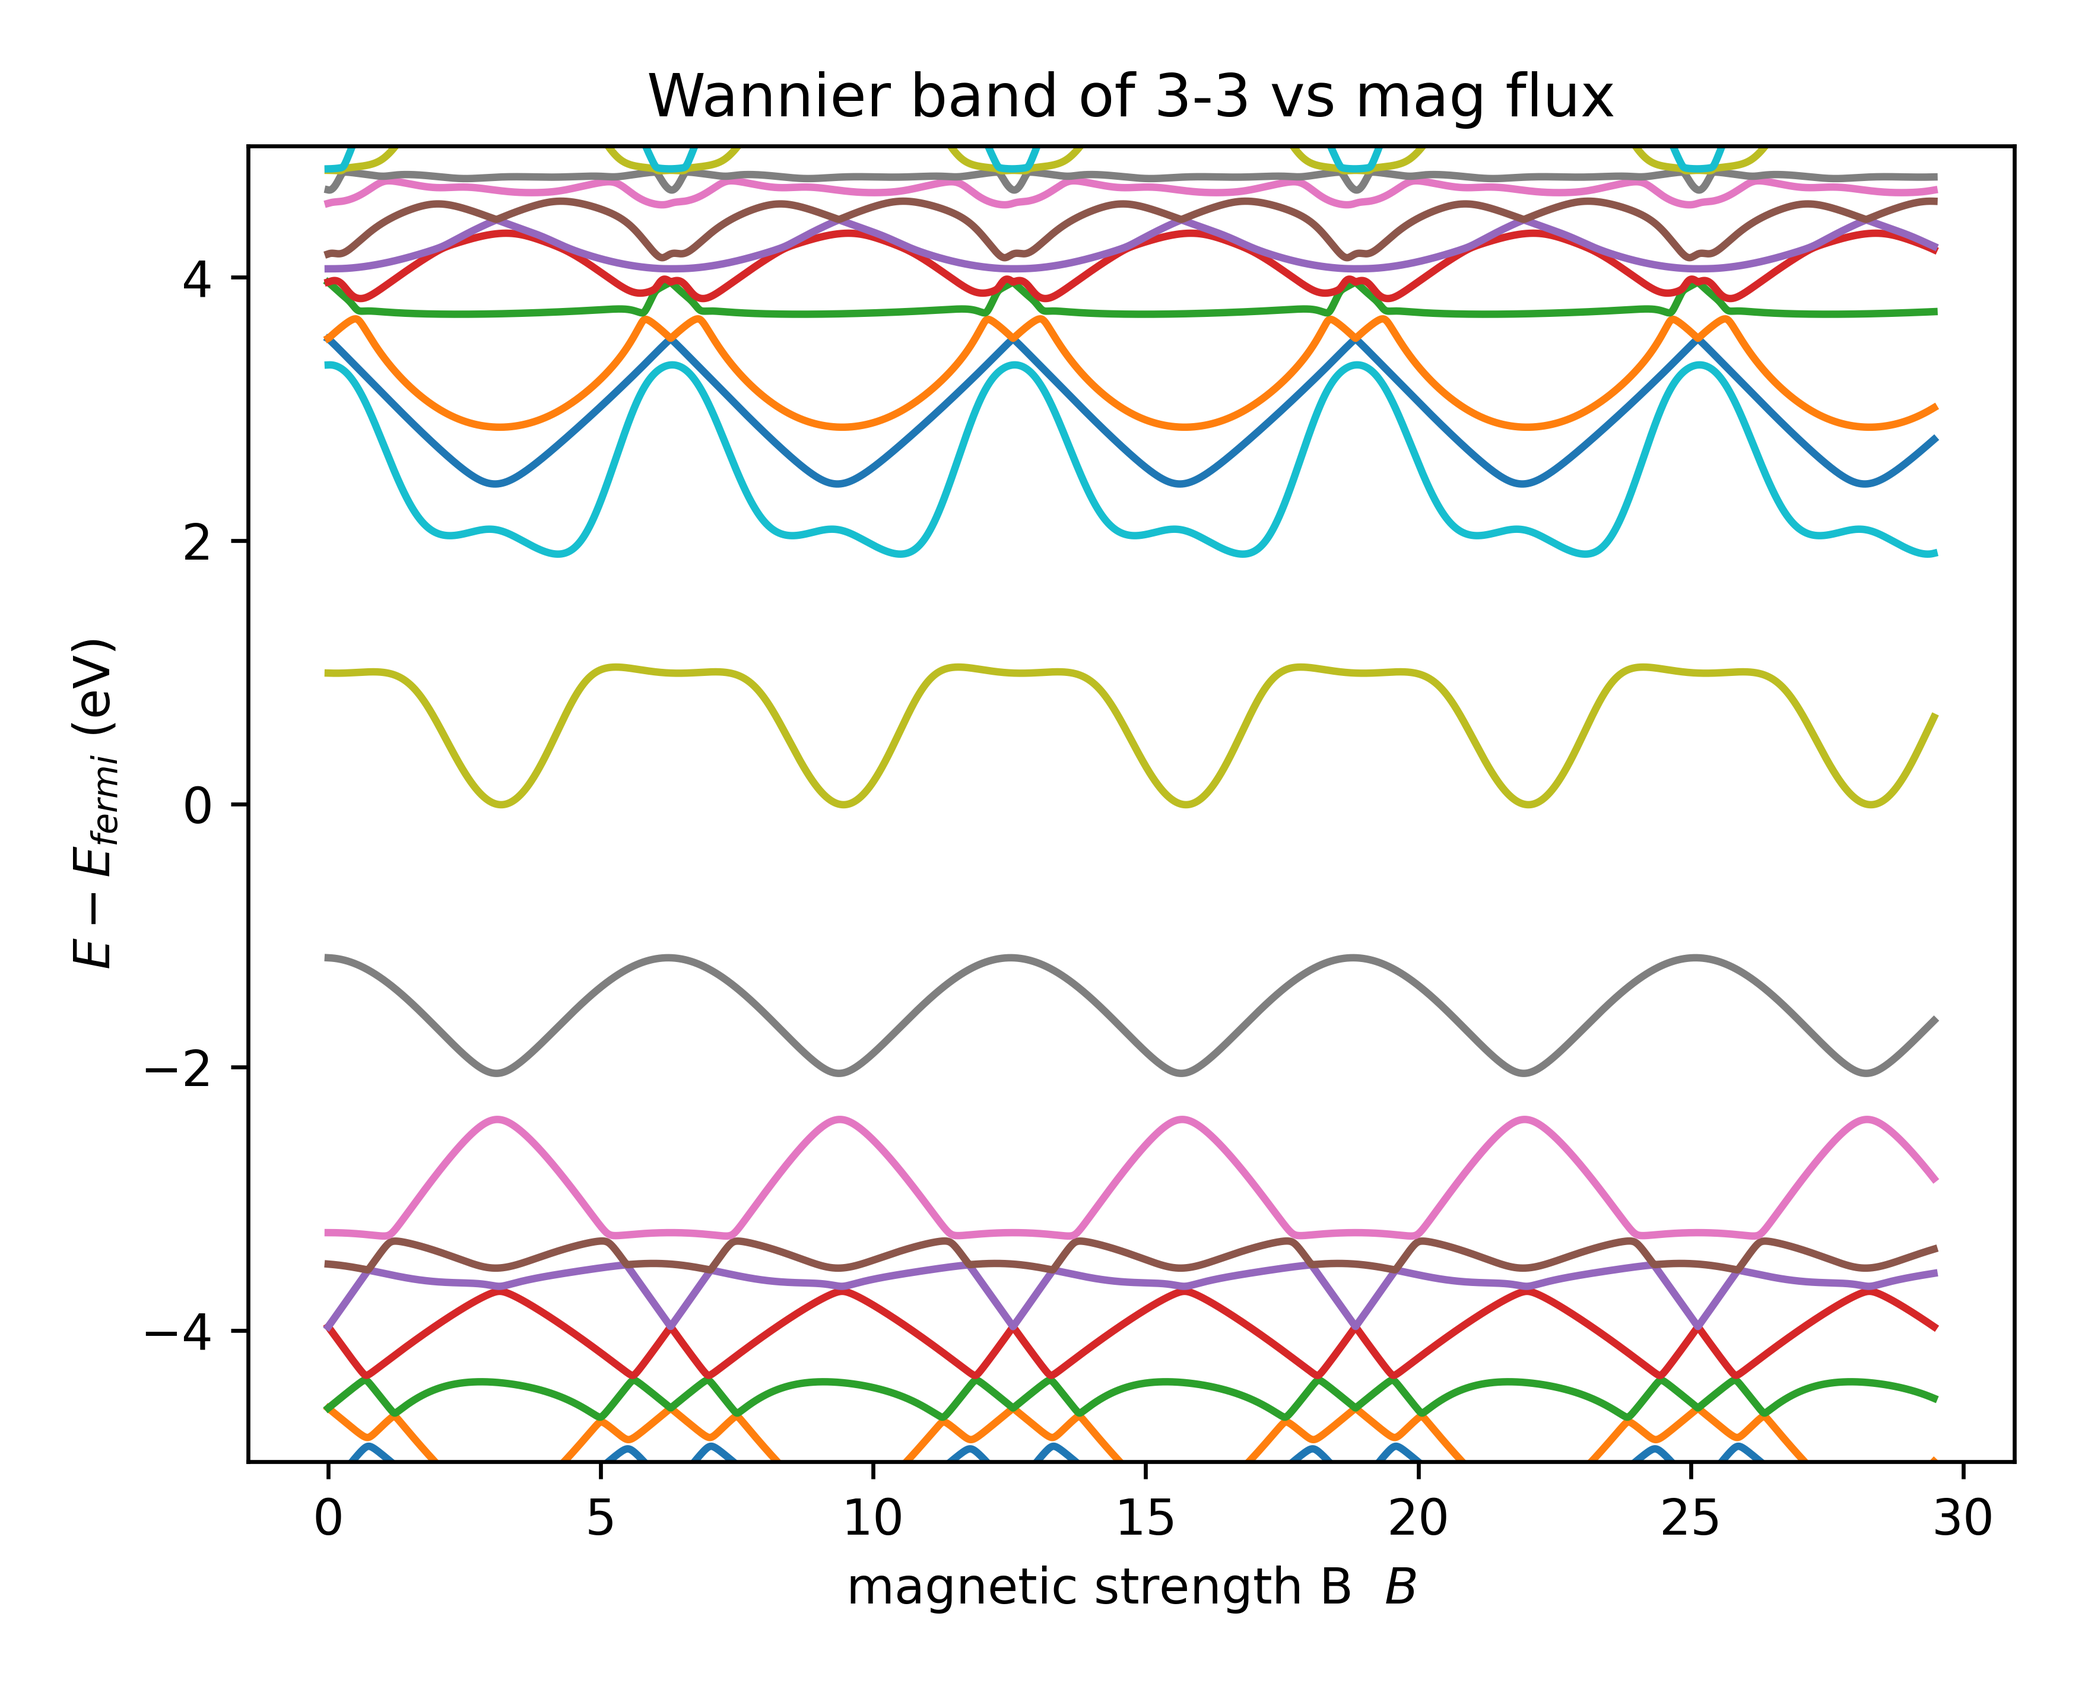
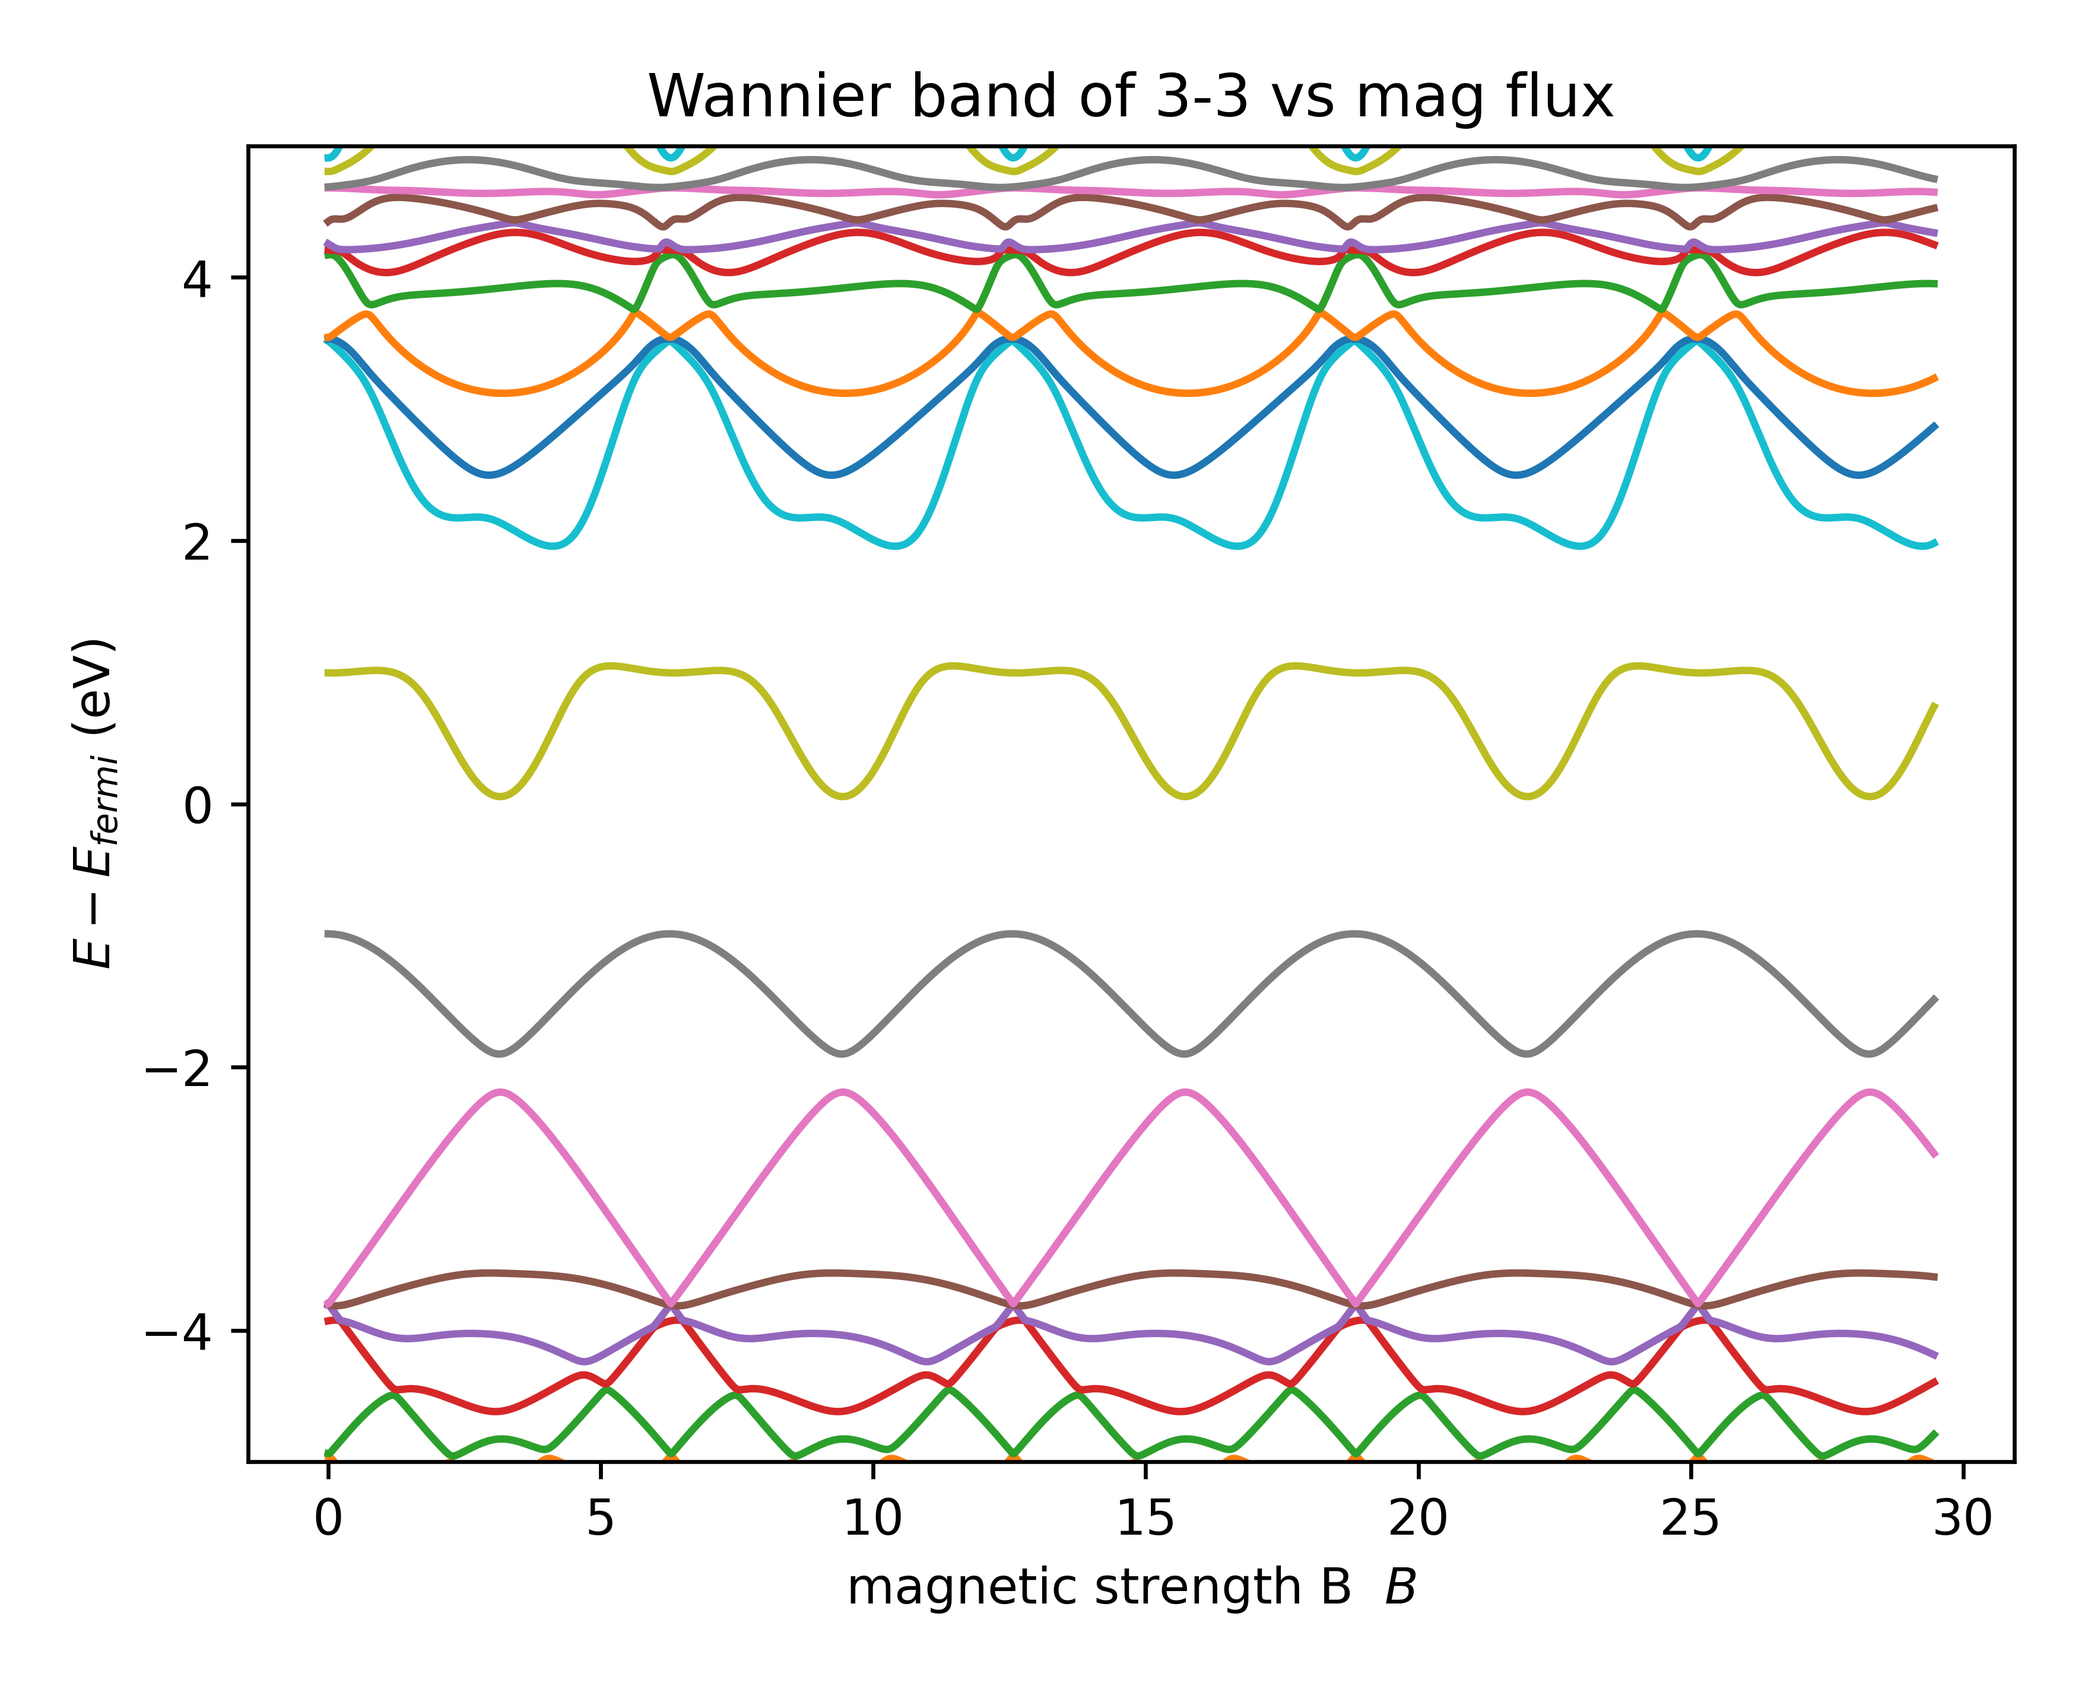
Update Wannier Band

diff --git a/postprocess/WannierBand.py b/postprocess/WannierBand.py
@@ -15,9 +15,11 @@ Description: This python code is designed for construction the Hamiltonian
                 - wannier band.png
 '''
 
-
+#%%
+import scipy.constants as cst
 import time
 import numpy as np
+import scipy
 import matplotlib.pyplot as plt
 from matplotlib.pyplot import MultipleLocator  # 从pyplot导入MultipleLocator类，这个类用于设置刻度间隔
 
@@ -29,11 +31,14 @@ class WannierBand():
         self.ymax = ymax
         self.name = name
         self.source = source
-        self.CNT_r=CNT_r  # CNT的半径，用于计算加入磁通时候的截面面积, Unit:Ang
+        self.CNT_r=CNT_r  # CNT的半径，用于计算加入磁通时候的截面面积, Unit:1 Ang = 1e-10 m
         self.get_parameters()
         self.reciprocal()
 
     def get_parameters(self):
+        '''
+        read parameters from files 
+        '''
         # 读取wannier90_hr.dat文件
         with open(self.source+"wannier90_hr.dat", "r") as fw:
             lines = fw.readlines()
@@ -92,6 +97,9 @@ class WannierBand():
 
     # 根据实空间基矢获取倒格矢
     def reciprocal(self):
+        '''
+        get the reciprocal lattice vector
+        '''
         V = np.dot(self.lv[0], np.cross(self.lv[1], self.lv[2]))
         self.rec = [np.cross(self.lv[1], self.lv[2]) * 2 * np.pi / V,
                     np.cross(self.lv[2], self.lv[0]) * 2 * np.pi / V,
@@ -100,6 +108,9 @@ class WannierBand():
     # 构建K空间能带作图路径
     # 这里K空间路径越长，撒点越多，能带图越真实，注意endpoint=False的使用，避免重复计数与赋值
     def k_path(self): #self.k 指的是kpath的路径
+        '''
+        get the kpath for band calculation
+        '''
         self.k = np.zeros((self.n * self.kn, 3), dtype=np.float16)
         for i in range(len(self.K_point_path)):
             self.K_point_path[i] = self.K_point_path[i][0] * self.rec[0] + self.K_point_path[i][1] * self.rec[1] + \
@@ -115,6 +126,9 @@ class WannierBand():
 
     # 依照K空间路径构建作图步长，“步长”指的是沿着k空间高对称路径走过的长度
     def band_length(self):
+        '''
+        get the step length of kpath
+        '''
         k_length = [0]
         for i in range(self.n * self.kn - 1):
             if i < (self.n - 1) * self.kn:
@@ -134,6 +148,10 @@ class WannierBand():
         '''
 
     def matrix_element(self):
+        '''
+        generate the matrix and do the Fourier transformation
+        finally get the H(k)
+        '''
         h = np.zeros((self.n * self.kn, self.nrpts, self.num_wan, self.num_wan), dtype=np.complex64)
         R = np.zeros((self.n * self.kn, self.nrpts, 1, 1, 3), dtype=np.float16)
         Degen = np.zeros((self.n * self.kn, self.nrpts, 1, 1), dtype=np.uint8)
@@ -173,6 +191,9 @@ class WannierBand():
         self.H = H
 
     def plot(self):
+        '''
+        plot the band along k path
+        '''
         eigenvalue, _ = np.linalg.eigh(self.H)
         self.eigenvalue_k = np.sort(eigenvalue) - self.E_fermi
         dim = self.eigenvalue_k.shape[-1]
@@ -214,11 +235,8 @@ class WannierBand():
 
         kz_car=np.array([0,0,kz_car])
 
-
-        rhplanck = 1.054571817E-34 # reduced Planck constant
-        e = 1.6E-19
         ###
-        self.B = np.array(np.linspace(0, 15E4, 3000),dtype=np.float64) / (rhplanck / e)  # 磁场强度，单位特斯拉
+        self.B = np.array(np.linspace(0, 4*self.period_B, 3000),dtype=np.float64) / (cst.h / (2*cst.e))  # 磁场强度，单位特斯拉
         ###
         #               k路径撒点数量      实空间矩阵数   wannier基数   wannier基数
         h = np.zeros((self.n * self.kn, self.nrpts, self.num_wan, self.num_wan), dtype=np.complex128)
@@ -245,19 +263,14 @@ class WannierBand():
                 for j in range(self.num_wan):
                     R1 = np.array(list(map(float, lines[i + 2].strip().split()[1:4])))
                     R2 = np.array(list(map(float, lines[j + 2].strip().split()[1:4])))
-                    wan_centre[..., i, j, :] = (R1 - R2) # 把一个三维矢量，赋给了一个三阶张量
-                    #temp=wan_centre[..., i, j, :]
-                    #print(wan_centre.shape)
-                    #print(wan_centre[..., i, j, :].shape)
-                    #print(wan_centre[21,5, 0, 1, :])                                       
+                    wan_centre[..., i, j, :] = (R1 - R2) # 把一个三维矢量，赋给了一个三阶张量                                      
                     R1[-1] = 0.0
                     R2[-1] = 0.0
                     sgn = np.sign(np.cross(R1, R2)[-1])
 
-                    #R_avg = (np.linalg.norm(R1) + np.linalg.norm(R2)) / 2
                     R_avg=self.CNT_r
                     theta = np.arccos(round(np.dot(R1, R2) / (np.linalg.norm(R1) * np.linalg.norm(R2)), 8))
-                    S[i, j] = 1E-20 * sgn * theta * (R_avg ** 2) / 2 #use meters as unit, adjust for the sign problem
+                    S[i, j] = sgn * theta * ((1e-10 * R_avg) ** 2) / 2 #use meters as unit, adjust for the sign problem
                     # 记录ij间考虑符号的面积
 
         # x 用于判断wannier90_hr.dat中第几行开始有矩阵元
@@ -284,30 +297,124 @@ class WannierBand():
                  None, -1, ...]).sum(axis=2)
         '''
         H = (np.exp(1j * (R[None, -1, ...] * kz_car[None, None, None, None, None, :]).sum(axis=-1)) * (np.exp(
-            1j * (wan_centre[None, -1, ...] * self.k[None, -1, None, None, None, :]).sum(axis=-1)) * (np.exp(
+            1j * (wan_centre[None, -1, ...] * kz_car[None, None, None, None, None, :]).sum(axis=-1)) * (np.exp(
             1j * S[None, None, None, ...] * self.B[:, None, None, None, None])) * h[None, -1, ...]) / Degen[
                  None, -1, ...]).sum(axis=2)
 
         H = H.sum(axis=1)
         
         self.mag_H = H
+        self.mag_H_kz=kz_car[-1]
 
 
     def mag_plot(self):
+        '''
+        plot the band structure along mag flux phi at fix k point
+        '''
         eigenvalue, _ = np.linalg.eigh(self.mag_H)
         self.eigenvalue_k = np.sort(eigenvalue) - self.E_fermi
         dim = self.eigenvalue_k.shape[-1]
         fig, ax = plt.subplots()
         for dim0 in range(dim):
-            plt.plot((1e-20*np.pi*self.CNT_r**2)*self.B[0:len(self.B)], self.eigenvalue_k[:, dim0])
+            plt.plot(self.B, self.eigenvalue_k[:, dim0])
 
         ax.set_title('Wannier band of {} vs mag flux'.format(self.name))
         ax.set_xlabel("magnetic strength B  "r"$B$")
         ax.set_ylabel(r"$E - E_{fermi}$"' (eV)')
         plt.ylim([self.ymin, self.ymax])
 
-        plt.savefig(self.source+'Mag band of {}'.format(self.name), bbox_inches='tight', dpi=600, pad_inches=0.2)  # bbox…去掉图外边框
+        plt.savefig(self.source+'Mag band of {} at kz= {:.2f}.png'.format(self.name,self.mag_H_kz), bbox_inches='tight', dpi=600, pad_inches=0.2)  # bbox…去掉图外边框
         #plt.show()
+
+    def get_boundary(self):
+        '''
+        Get the peoriod of kz and mag strength B (and mag flux phi)
+        '''
+        #self.CNT_r
+        self.period_kz = self.rec[-1][-1]
+        unitphi= 2* cst.pi * cst.h / ( 2 * cst.e)
+        self.period_phi = unitphi
+        self.period_B = unitphi/(cst.pi*(self.CNT_r*1e-10)**2)
+        print("period kz and B is {} and {} respectively.".format(self.period_kz,self.period_B))
+    
+    def get_full_matrix(self, kz_mesh=200, phi_mesh=200, method='loop'):
+        '''
+        Get the full matrix H(kz,phi)
+        kz_mesh, phi_mesh defines the number of mesh grids.
+        method:     loop use the for loop
+                    broadcast use the broadcast: faster but larger RAM consumption
+        '''
+
+        if not hasattr(self, 'period_kz'):
+            self.get_boundary()
+
+        ### mesh
+        self.B = np.array(np.linspace(0, self.period_B, phi_mesh),dtype=np.float64) / (cst.h / (2*cst.e))  # 磁场强度，单位特斯拉
+        self.kz = np.array([[0,0,i]for i in np.array(np.linspace(0, self.period_kz, kz_mesh),dtype=np.float64)])
+        ###
+
+        #               k路径撒点数量      实空间矩阵数   wannier基数   wannier基数
+        h = np.zeros((self.n * self.kn, self.nrpts, self.num_wan, self.num_wan), dtype=np.complex128)
+        R = np.zeros((self.n * self.kn, self.nrpts, 1, 1, 3), dtype=np.float32) 
+        Degen = np.zeros((self.n * self.kn, self.nrpts, 1, 1), dtype=np.int8) # 简并程度
+        wan_centre = np.zeros((self.n * self.kn, self.nrpts, self.num_wan, self.num_wan, 3), dtype=np.float32)
+        S = np.zeros((self.num_wan, self.num_wan), dtype=np.float32)
+        # 读取the degeneracy of each Wigner-Seitz grid point
+        print(self.nrpts)
+
+        # mod 15 是因为记录wannier90_hr.dat中的第四行开始的记录简并度的行，一行最多有15个数字
+        for ir in range(3, 4 + (self.nrpts - 1) // 15):   # ir 判断了写简并度的行数有几行
+            if ir != 3 + (self.nrpts - 1) // 15:
+                for jr in range(15):
+                    Degen[:, (ir - 3) * 15 + jr, :] = self.lines[ir].split()[jr]
+            else:
+                for jr in range(1 + (self.nrpts - 1) % 15):
+                    Degen[:, (ir - 3) * 15 + jr, :] = self.lines[ir].split()[jr]
+        
+        # 读取wannier90_centres.xyz文件 采用AGFT
+        with open(self.source+"wannier90_centres.xyz", "r") as fw:
+            lines = fw.readlines()#self.lines 和 lines 是两个变量。。。
+            for i in range(self.num_wan):
+                for j in range(self.num_wan):
+                    R1 = np.array(list(map(float, lines[i + 2].strip().split()[1:4])))
+                    R2 = np.array(list(map(float, lines[j + 2].strip().split()[1:4])))
+                    wan_centre[..., i, j, :] = (R1 - R2) # 把一个三维矢量，赋给了一个三阶张量                                      
+                    R1[-1] = 0.0
+                    R2[-1] = 0.0
+                    sgn = np.sign(np.cross(R1, R2)[-1])
+
+                    R_avg=self.CNT_r
+                    theta = np.arccos(round(np.dot(R1, R2) / (np.linalg.norm(R1) * np.linalg.norm(R2)), 8))
+                    S[i, j] = sgn * theta * ((1e-10 * R_avg) ** 2) / 2 #use meters as unit, adjust for the sign problem
+                    # 记录ij间考虑符号的面积
+
+        # x 用于判断wannier90_hr.dat中第几行开始有矩阵元
+        if self.nrpts % 15 == 0:
+            x = self.nrpts // 15 + 3
+        else:
+            x = self.nrpts // 15 + 4
+        
+        # h 为实空间的哈密顿量矩阵
+        for i in range(x, len(self.lines)):
+            h[:, int(np.floor((i - x) / self.num_wan ** 2)), int(self.lines[i].split()[3]) - 1,
+            int(self.lines[i].split()[4]) - 1] = \
+                float(self.lines[i].split()[5]) + 1j * float(self.lines[i].split()[6])
+
+        # 每个实空间矩阵的对应的晶格矢量    
+        for m in range(self.nrpts):
+            R[:, m, ...] = float(self.lines[x + m * (self.num_wan ** 2)].split()[0]) * np.array(self.lv[0]) + float(
+                self.lines[x + m * (self.num_wan ** 2)].split()[1]) * np.array(self.lv[1]) + float(
+                self.lines[x + m * (self.num_wan ** 2)].split()[2]) * np.array(self.lv[2])
+        
+        H = (np.exp(1j * (R[None,None, -1, ...] * self.kz[:,None, None, None, None, None, :]).sum(axis=-1)) * (np.exp(
+            1j * (wan_centre[None,None, -1, ...] * self.kz[:, None,None, None, None, None, :]).sum(axis=-1)) * (np.exp(
+            1j * S[None, None, None, None, ...] * self.B[None, :, None, None, None, None])) * h[None,None, -1, ...]) / Degen[
+            None, None, -1, ...]).sum(axis=2)
+
+        H = H.sum(axis=2)
+        
+        self.full_H = H
+
 
 def AGFT(source='./', name='example',E_fermi = 0.0, ymin = -5, ymax = 5):
     # 从自洽步获取费米能，grep fermi OUTCAR
@@ -322,12 +429,18 @@ def AGFT(source='./', name='example',E_fermi = 0.0, ymin = -5, ymax = 5):
 def mag_band(source='./', name='example',E_fermi = 0.0, ymin = -5, ymax = 5, CNT_r=1.0):
     begin = time.time()
     kernel = WannierBand(name=name, E_fermi=E_fermi, ymin=ymin, ymax=ymax, source=source, CNT_r=CNT_r)
-    kernel.k_path()
+    #kernel.k_path()
     #kernel.length()
-    kernel.mag_matrix_element()
+    kernel.get_boundary()
+    kernel.mag_matrix_element(kz=0.0)
     print('time:', time.time() - begin)
     kernel.mag_plot()
 
+def full_hamiltonian(source='./', name='example',E_fermi = 0.0, ymin = -5, ymax = 5, CNT_r=1.0):
+    kernel = WannierBand(name=name, E_fermi=E_fermi, ymin=ymin, ymax=ymax, source=source, CNT_r=CNT_r)
+    kernel.get_full_matrix()
+
 if __name__ == '__main__':  # 如果是当前文件直接运行，执行main()函数中的内容；如果是import当前文件，则不执行。
-    AGFT(source='work/example-3-3/',name='3-3',E_fermi=-2.4239)
-    mag_band(source='work/example-3-3/',name='3-3',E_fermi=-2.4239, CNT_r=2.03)
+    # AGFT(source='work/example-3-3/',name='3-3',E_fermi=-2.4239)
+    # mag_band(source='work/example-3-3/',name='3-3',E_fermi=-2.4239, CNT_r=2.03)
+    full_hamiltonian(source='work/example-3-3/',name='3-3',E_fermi=-2.4239, CNT_r=2.03)
